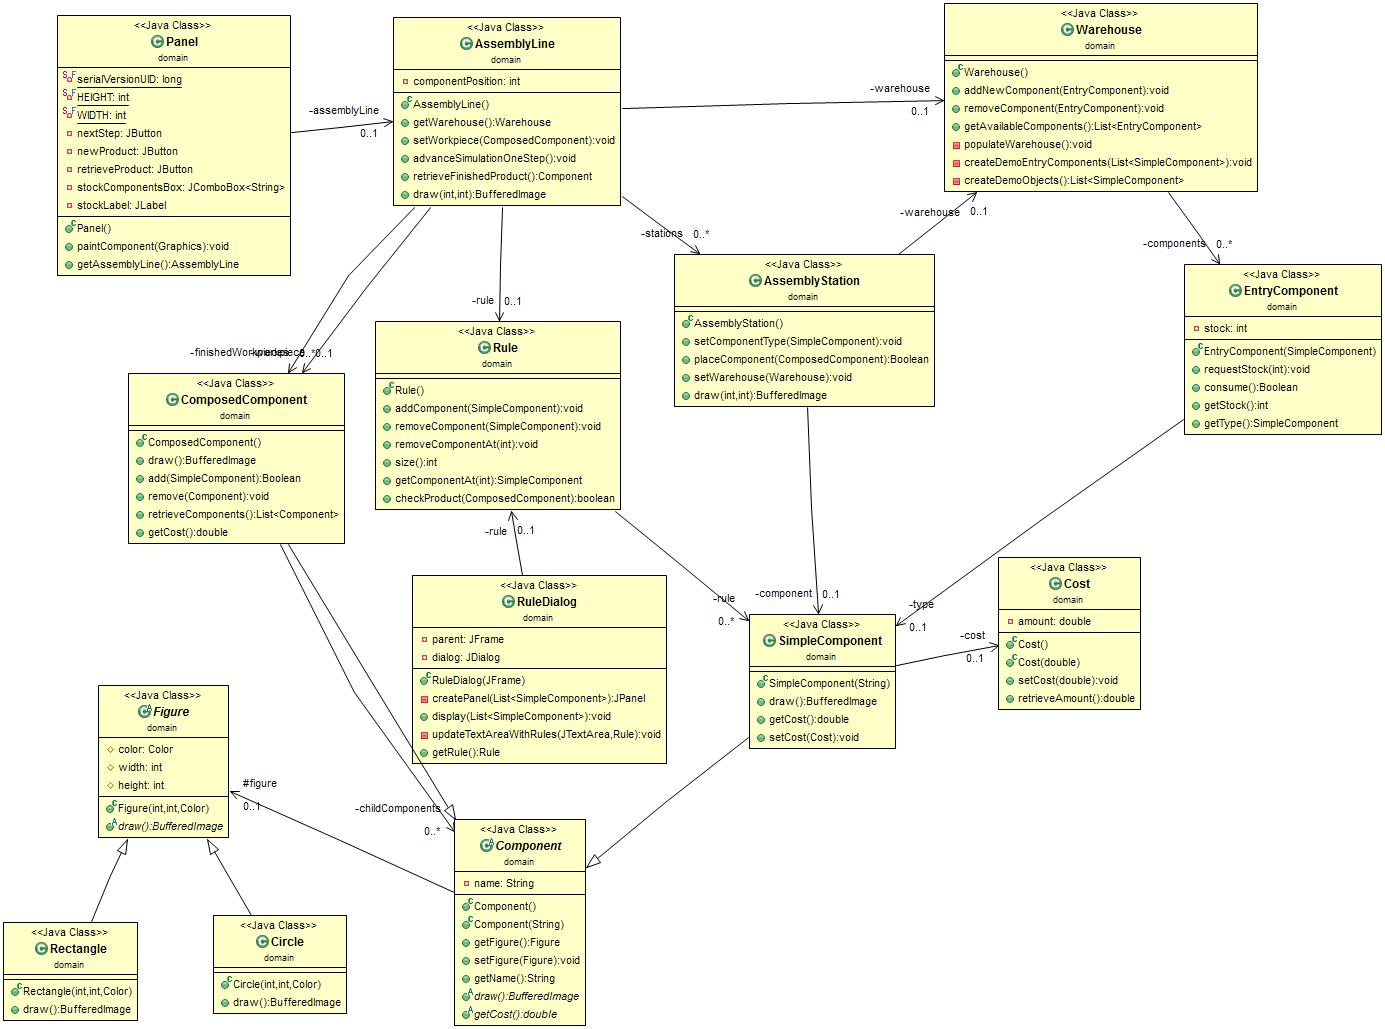
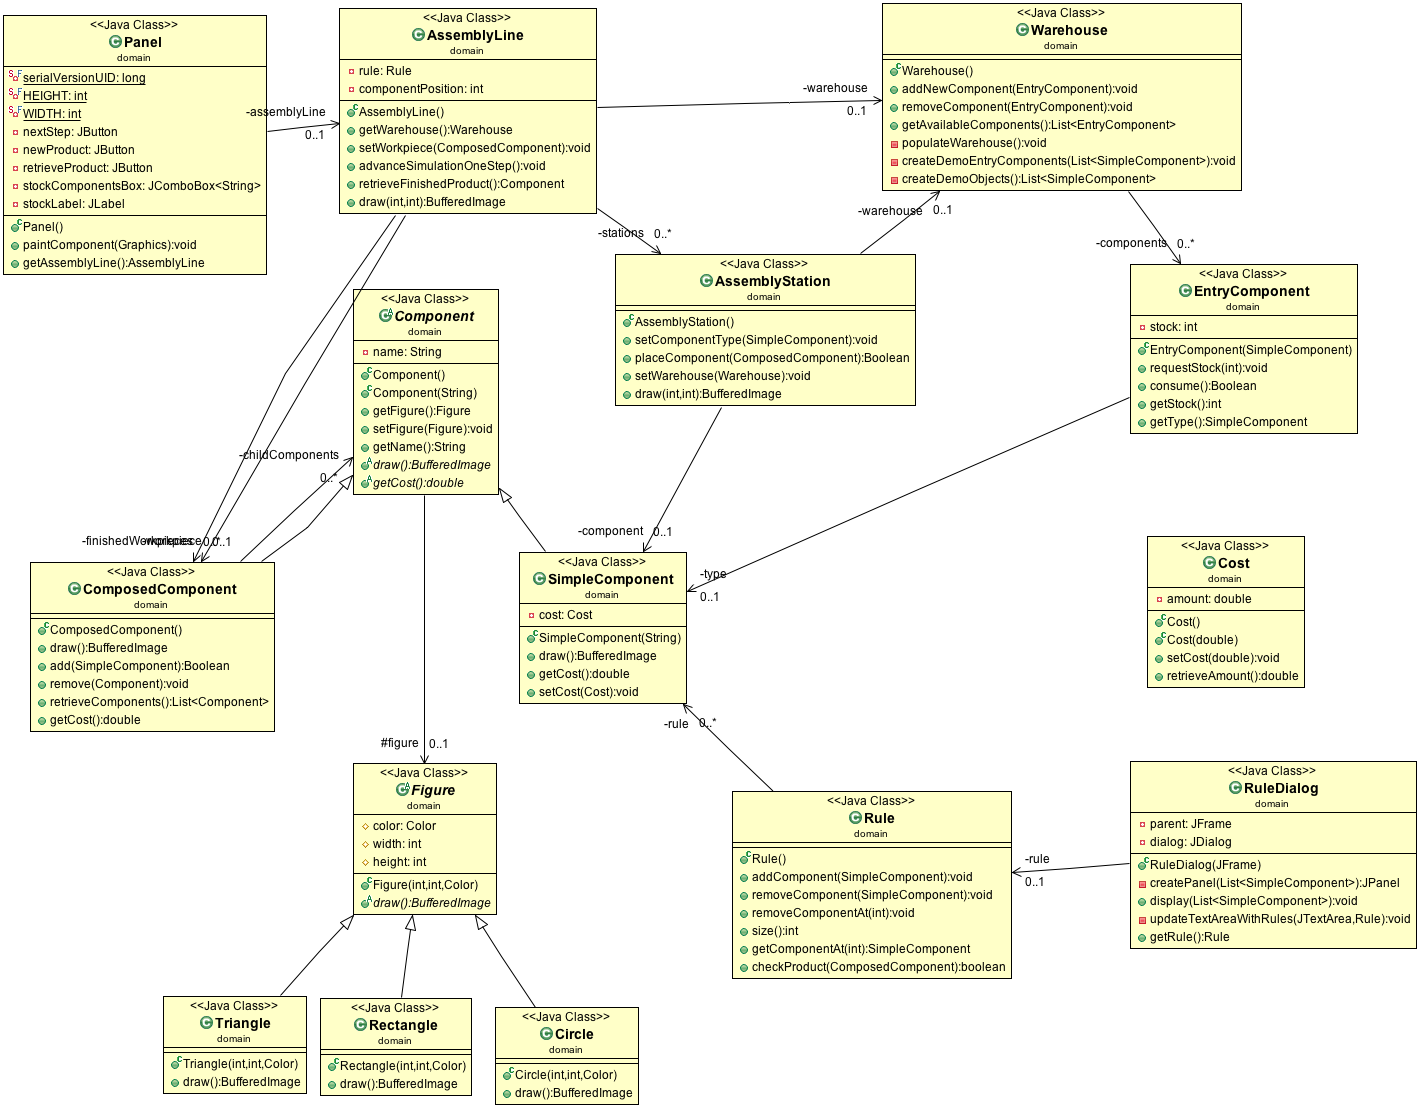
fix association of RuleDialog as discussed by teacher today

diff --git a/AssemblyLine/src/domain/RuleDialog.java b/AssemblyLine/src/domain/RuleDialog.java
@@ -19,21 +19,20 @@ import javax.swing.ScrollPaneConstants;
 
 public class RuleDialog {
 
-	private JFrame parent;
+	private JFrame parent = null;
     private JDialog dialog;
     private Rule rule;
     
 //    List<SimpleComponent> availableComponents;
 //    JComboBox<String> availableComponentsBox;
     
-	public RuleDialog(JFrame owner) {
-		this.parent = owner;
+	public RuleDialog(Rule rule) {
+		this.rule = rule;
 	}
 	
 	private JPanel createPanel(final List<SimpleComponent> availableComponents)
     {
         JPanel panel = new JPanel();
-        rule = new Rule();
 
         JLabel dialogtitlelabel = new JLabel ("Add stations to simulate");
         panel.add (dialogtitlelabel);

diff --git a/AssemblyLine/src/domain/Rule.java b/AssemblyLine/src/domain/Rule.java
@@ -7,6 +7,11 @@ public class Rule {
 
     private List<SimpleComponent> rule = new ArrayList<SimpleComponent>();
 	
+    public Rule(List<SimpleComponent> availableComponents) {
+    	RuleDialog dialog = new RuleDialog(this);
+    	dialog.display(availableComponents);
+    }
+    
 	//The handler will call addRule with the name of the 
 	//object to add a rule
 	public void addComponent(SimpleComponent object)

diff --git a/AssemblyLine/src/domain/AssemblyLine.java b/AssemblyLine/src/domain/AssemblyLine.java
@@ -28,13 +28,7 @@ public class AssemblyLine {
 			availableComponents.add(entry.getType());
 		}
 		
-		RuleDialog rulesDialog = new RuleDialog(null);
-		rulesDialog.display(availableComponents);
-		
-		this.rule = rulesDialog.getRule();
-		
-		
-		
+		this.rule = new Rule(availableComponents);
 		
 		for (int i=0; i<rule.size(); i++) {
 			AssemblyStation station = new AssemblyStation();
